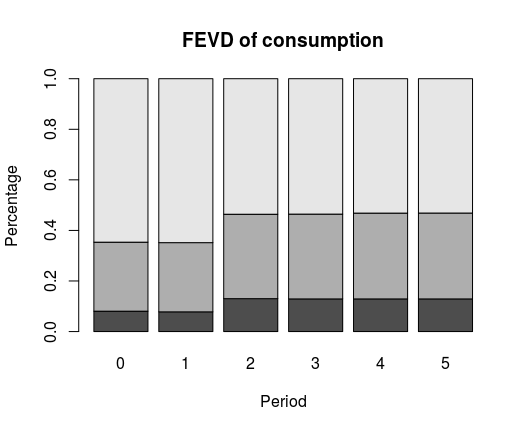
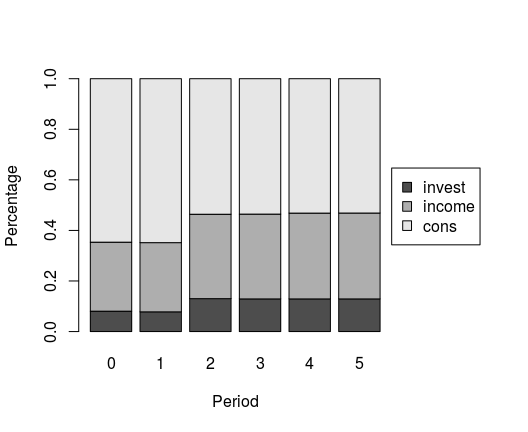
Add legend to FEVD plots

diff --git a/NEWS.md b/NEWS.md
@@ -1,6 +1,7 @@
 # bvartools 0.0.2
 
-* Fix a bug in predict function
+* predict allows for p = 1
+* Add legend to plot.bvarfevd
 
 # bvartools 0.0.1
 
